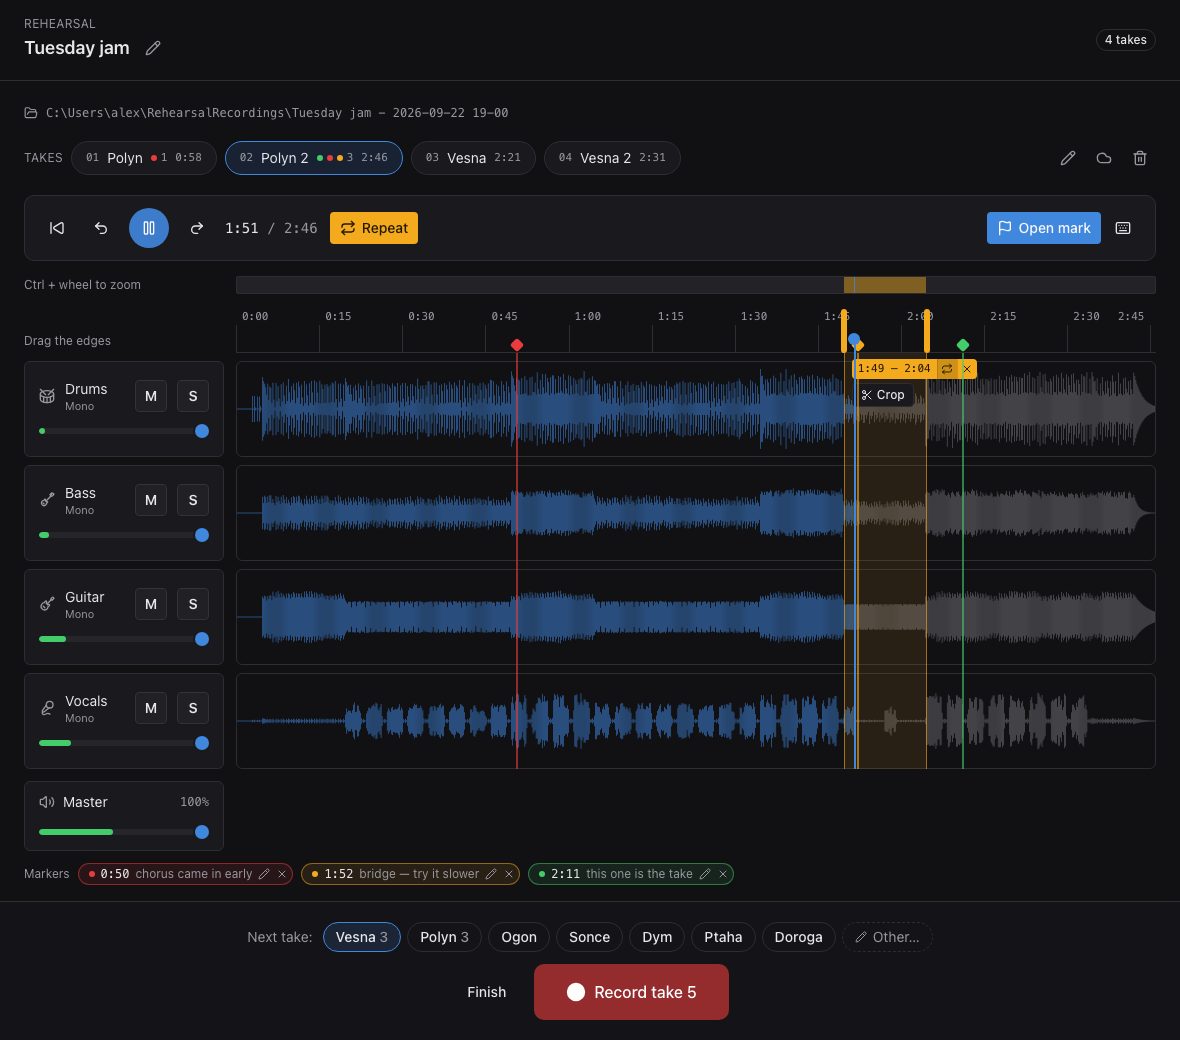
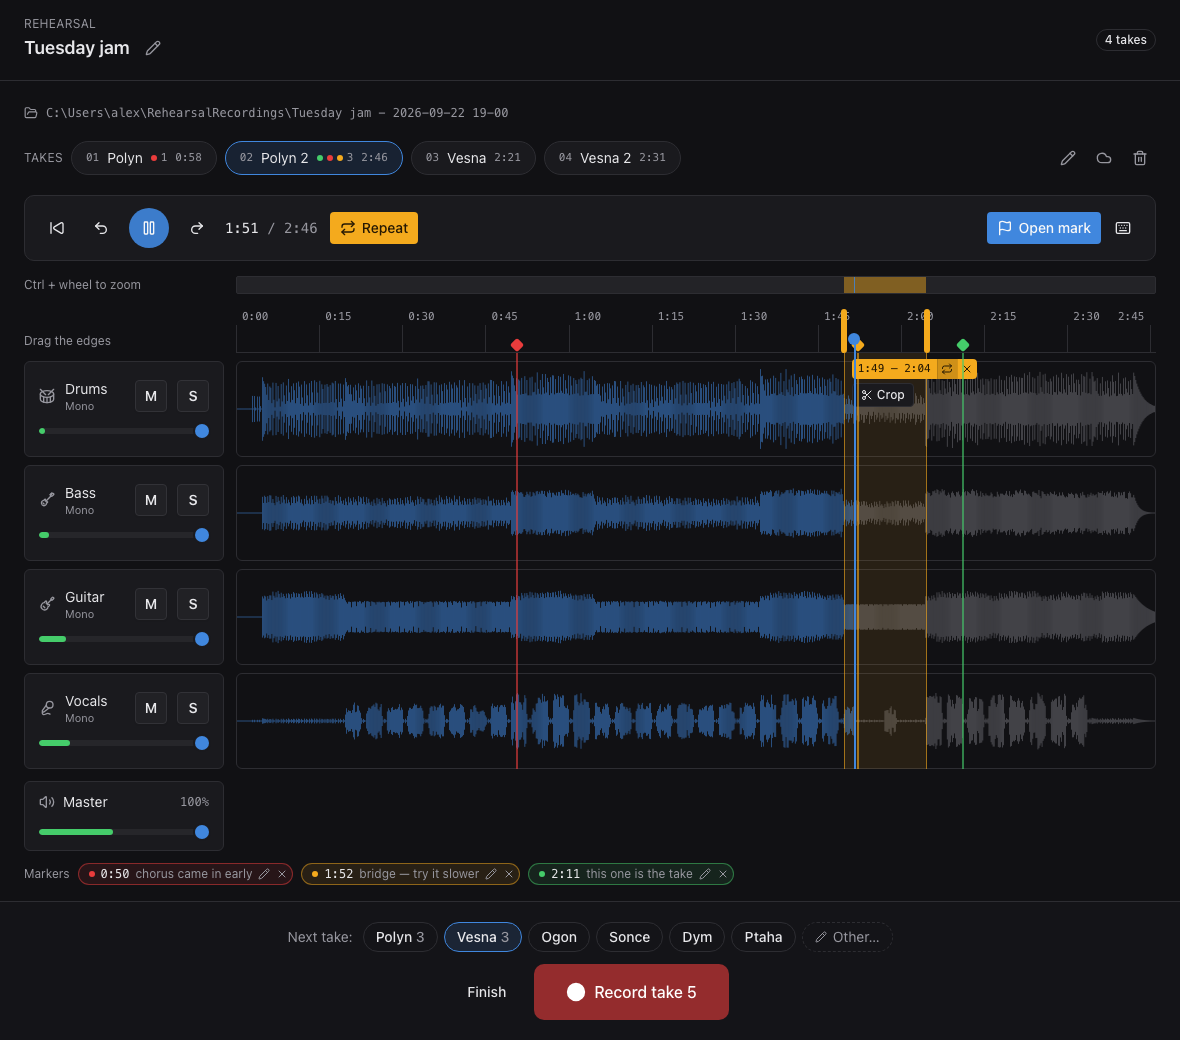
Keep the next take's songs in their places when one is clicked
The row put the picked name first, so the song clicked jumped out from
under the pointer and the rest shifted along, and "Take 1" vanished and
pulled everything left. The songs now keep one order and the picked one is
lit where it stands. The name the take would have anyway leads the row
while it is no song's, and stays there to go back to: session_state says
it as next_take_default. A name from Other… the row has no place for comes
last.

Changed region(s): [[0.2136, 0.8615, 0.7627, 0.9231]]

diff --git a/ui/src/components/NextTakeName.tsx b/ui/src/components/NextTakeName.tsx
@@ -19,22 +19,33 @@ const SHOWN = 6
  * screen compared it with Polyn's length.
  *
  * The songs are out in the open rather than behind a menu: a menu under
- * "Next take: Take 1" read as a caption, and nobody found it. First the
- * name the take has now, lit; then what this rehearsal played, as the next
- * go at each; then the rest of the repertoire, the latest played first.
- * Other… has every song and a field for a name nobody has played.
+ * "Next take: Take 1" read as a caption, and nobody found it. They are what
+ * this rehearsal played, as the next go at each, then the rest of the
+ * repertoire, the latest played first; Other… has every song and a field
+ * for a name nobody has played.
+ *
+ * The one picked is lit where it stands. Nothing moves when one is
+ * clicked: with the picked one put first, the song clicked jumped out from
+ * under the pointer and the rest shifted along. So the name the take would
+ * have anyway, "Take 1" before anything is named, leads the row while it
+ * is no song's, and stays there to go back to; a name from Other… that the
+ * row has no place for comes last.
  *
  * Python keeps the choice until a take is kept, so a take thrown away
  * leaves it for the go after.
  */
 export function NextTakeName({
   name,
+  defaultName,
   version,
   onChoose,
 }: {
   name: string
+  /** What it would be called without a name picked for it. */
+  defaultName: string
   /** Changes with the rehearsal's takes, so the songs follow them. */
   version: string
+  /** The name picked, or "" to go back to the default. */
   onChoose: (name: string) => void
 }) {
   const [open, setOpen] = useState(false)
@@ -47,13 +58,24 @@ export function NextTakeName({
     setOpen(false)
   }
 
-  const all = choices ? [...choices.here, ...choices.other] : []
-  const said = name.trim().toLocaleLowerCase()
-  const itsOwn = all.find((c) => c.name.toLocaleLowerCase() === said)
-  // The name the take has now, whether or not it is one of the songs: the
-  // app's own "Take 1" before anything is named, or a name typed in Other….
-  const current: SongChoice = itsOwn ?? { song: name, name }
-  const others = all.filter((c) => c !== itsOwn).slice(0, SHOWN)
+  const songs = choices ? [...choices.here, ...choices.other] : []
+  const same = (a: string, b: string) =>
+    a.trim().toLocaleLowerCase() === b.trim().toLocaleLowerCase()
+  const lead: SongChoice | null = songs.some((c) => same(c.name, defaultName))
+    ? null
+    : { song: defaultName, name: defaultName }
+  const shown = songs.slice(0, SHOWN)
+  const placed = [...(lead ? [lead] : []), ...shown]
+  const last: SongChoice | null = placed.some((c) => same(c.name, name))
+    ? null
+    : (songs.find((c) => same(c.name, name)) ?? { song: name, name })
+  const row = [...placed, ...(last ? [last] : [])]
+  const pick = (c: SongChoice) => {
+    // The lead goes back to the name the take would have had, picked or not.
+    if (c === lead) {
+      if (!same(name, defaultName)) onChoose("")
+    } else choose(c.name)
+  }
   const chip = "px-3 py-1 text-sm"
 
   return (
@@ -63,9 +85,14 @@ export function NextTakeName({
       className="flex max-w-3xl flex-wrap items-center justify-center gap-1.5"
     >
       <span className="mr-1 text-sm text-muted-foreground">Next take:</span>
-      <SongChip choice={current} current onPick={choose} className={chip} />
-      {others.map((c) => (
-        <SongChip key={c.song} choice={c} current={false} onPick={choose} className={chip} />
+      {row.map((c) => (
+        <SongChip
+          key={c.song}
+          choice={c}
+          current={same(c.name, name)}
+          onPick={() => pick(c)}
+          className={chip}
+        />
       ))}
       <Popover
         open={open}

diff --git a/ui/e2e/naming.spec.ts b/ui/e2e/naming.spec.ts
@@ -115,9 +115,21 @@ test.describe("the next take", () => {
     await expect(lit(page)).toHaveText("Take 1")
     await expect(row(page).getByRole("button", { name: "Vesna", exact: true })).toBeVisible()
 
-    await row(page).getByRole("button", { name: "Vesna", exact: true }).click()
+    // Nothing moves under the pointer: the one clicked is lit where it is,
+    // and the name the take would have had stays in front, to go back to.
+    const vesna = row(page).getByRole("button", { name: "Vesna", exact: true })
+    const before = await row(page).locator("[data-song-choice]").allTextContents()
+    const at = (await vesna.boundingBox())!.x
+    await vesna.click()
     await expect(lit(page)).toHaveText("Vesna")
     expect((await calls(page, "set_next_take_name")).at(-1)?.args).toEqual(["Vesna"])
+    expect(await row(page).locator("[data-song-choice]").allTextContents()).toEqual(before)
+    expect((await vesna.boundingBox())!.x).toBe(at)
+    await row(page).getByRole("button", { name: "Take 1", exact: true }).click()
+    await expect(lit(page)).toHaveText("Take 1")
+    expect((await calls(page, "set_next_take_name")).at(-1)?.args).toEqual([""])
+    await vesna.click()
+    await expect(lit(page)).toHaveText("Vesna")
     // The click left the keyboard to the screen: Space records.
     await page.keyboard.press("Space")
     // The recording screen already says the song, and review has the name.

diff --git a/ui/e2e/fake-bridge.js b/ui/e2e/fake-bridge.js
@@ -113,8 +113,8 @@ function moveTo(t) { P.position = Math.max(0, Math.min(P.duration, t)); P.t0 = c
 
 // Mirrors api.suggest_take_name: n is the take being named, left out it means
 // the one that comes next.
-function suggestName(n) {
-  if (session && nextName) return nextName;
+function suggestName(n, chosen = true) {
+  if (chosen && session && nextName) return nextName;
   const number = n === undefined ? takeCounter + 1 : n;
   if (!session || session.takes.length === 0) return 'Take ' + number;
   const last = session.takes[session.takes.length - 1].name;
@@ -374,7 +374,8 @@ window.__MAKE_API__ = () => ({
     return JSON.parse(JSON.stringify({active:true, name:session.name, folder:session.folder,
        tracks:session.tracks, takes:session.takes, songs:songsOf(session.takes),
        next_take_number:takeCounter + 1,
-       next_take_name:suggestName(), last_attempt:lastAttempt(session.takes, suggestName()),
+       next_take_name:suggestName(), next_take_default:suggestName(undefined, false),
+       last_attempt:lastAttempt(session.takes, suggestName()),
        recording:false, cloud_queue:cq}));
   },
   finish_rehearsal: track('finish_rehearsal', async () => {

diff --git a/ui/src/screens/Rehearsal.tsx b/ui/src/screens/Rehearsal.tsx
@@ -252,6 +252,7 @@ export function Rehearsal({
           {error && <p className="text-sm text-destructive">{error}</p>}
           <NextTakeName
             name={session.next_take_name}
+            defaultName={session.next_take_default ?? session.next_take_name}
             version={session.takes.map((t) => `${t.take_number}:${t.name}`).join("|")}
             onChoose={(name) => void nameNextTake(name)}
           />

diff --git a/ui/src/lib/api.ts b/ui/src/lib/api.ts
@@ -129,6 +129,8 @@ export type SessionState =
       songs: Song[]
       next_take_number: number
       next_take_name: string
+      /** What the next take would be called without a name picked for it. */
+      next_take_default?: string
       /** The latest go at the song the next take is named for, if any. */
       last_attempt?: LastAttempt | null
       recording: boolean

diff --git a/src/rehearsal_recorder/api.py b/src/rehearsal_recorder/api.py
@@ -1349,12 +1349,15 @@ class Api:
             "songs": _songs_of(takes),
             "next_take_number": s["take_counter"] + 1,
             "next_take_name": next_name,
+            # What it would be called without a name picked for it, which
+            # the rehearsal screen offers to go back to.
+            "next_take_default": self.suggest_take_name(chosen=False),
             "last_attempt": _last_attempt(takes, next_name),
             "recording": self._recorder is not None,
             "cloud_queue": self._cloud_queue.states(s["folder"]),
         }
 
-    def suggest_take_name(self, take_number=None):
+    def suggest_take_name(self, take_number=None, chosen=True):
         """
         A new take is usually another attempt at the same song, so it inherits
         the previous take's name with the counter bumped: "Polyn" -> "Polyn 2".
@@ -1365,13 +1368,13 @@ class Api:
         would be offered as "Take 2".
 
         A name chosen for the next take on the rehearsal screen comes before
-        all of that (see set_next_take_name).
+        all of that (see set_next_take_name), unless `chosen` is False: then
+        this is the name the take would have without it.
         """
         if self._session is None:
             return "Take 1"
-        chosen = self._session.get("next_name")
-        if chosen:
-            return chosen
+        if chosen and self._session.get("next_name"):
+            return self._session["next_name"]
         takes = self._session_takes()
         number = (
             take_number

diff --git a/tests/test_engine.py b/tests/test_engine.py
@@ -832,6 +832,8 @@ def main():
     ok("a name picked for the next take is the one it gets",
        a.set_next_take_name(" Vesna ")["next_take_name"] == "Vesna"
        and a.session_state()["next_take_name"] == "Vesna")
+    ok("and the name it would have had is still known, to go back to",
+       a.session_state()["next_take_default"] == "Polyn 3")
     a._session["take_counter"] = 3
     ok("the review screen is offered it for the take just recorded",
        a.suggest_take_name(3) == "Vesna")
